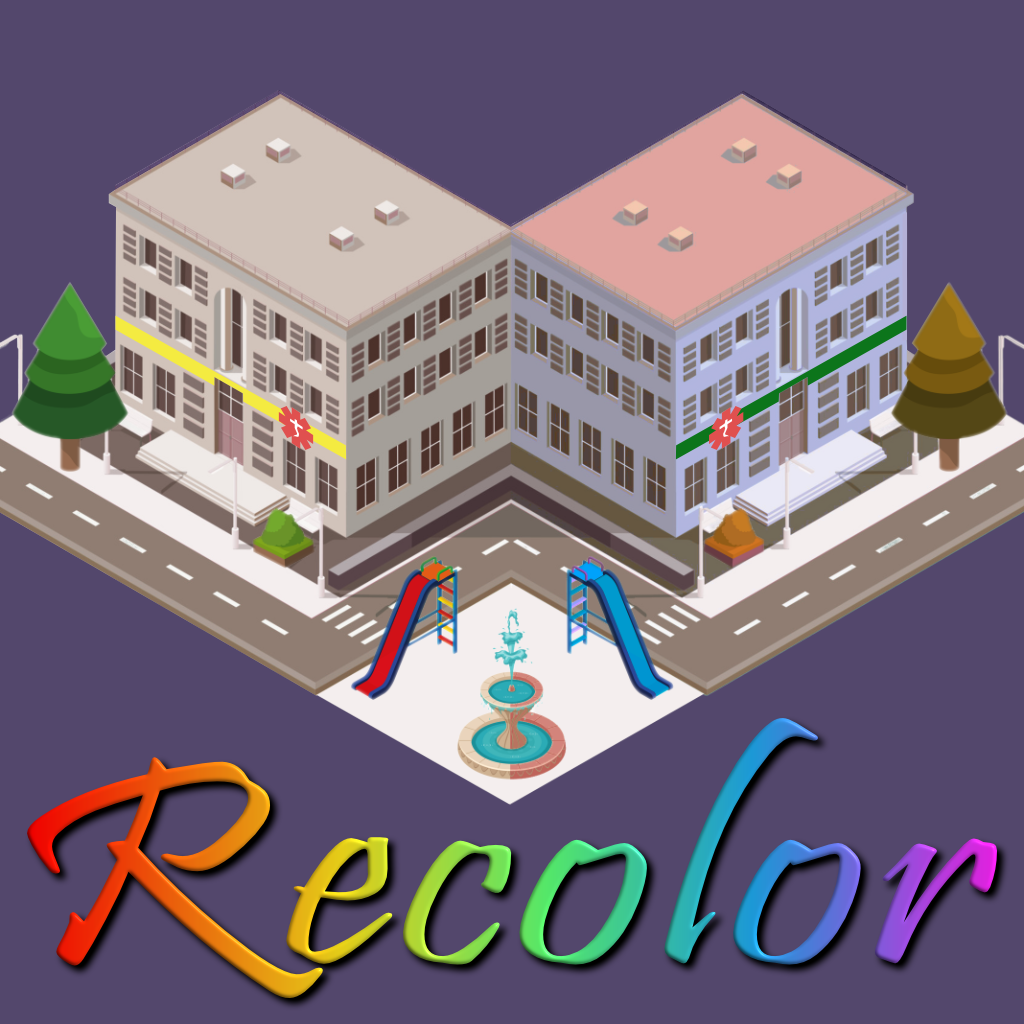
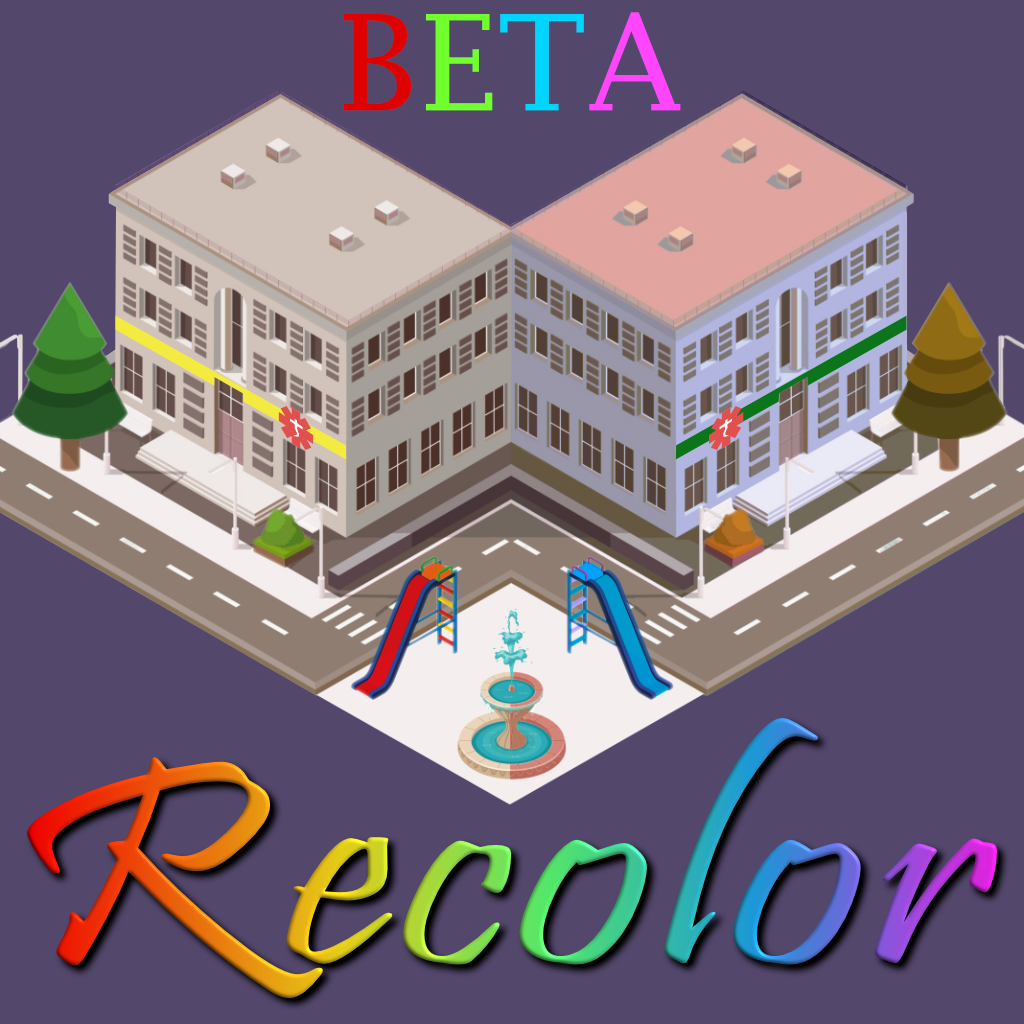
Release to public as unlisted beta

Changed region(s): [[0.3438, 0.0, 0.6562, 0.125]]

diff --git a/Recolor/Properties/Stable/ChangeLog.md b/Recolor/Properties/Stable/ChangeLog.md
@@ -1,2 +1,4 @@
-# Patch v1.2.6
-* Fix for identifying seasons which prevented changing colors of plants.
+# Patch v1.3.0
+* Major refactor to utilize vanilla component whenever possible which allows for custom colors to remain when the mod is removed.
+* Improved support for multi-mesh prefabs. Multi-mesh prefab support requires the mod as vanilla recoloring doesn't fully support multi-mesh prefabs.
+* Hopefully fixed CTD involving multi-mesh prefabs.
